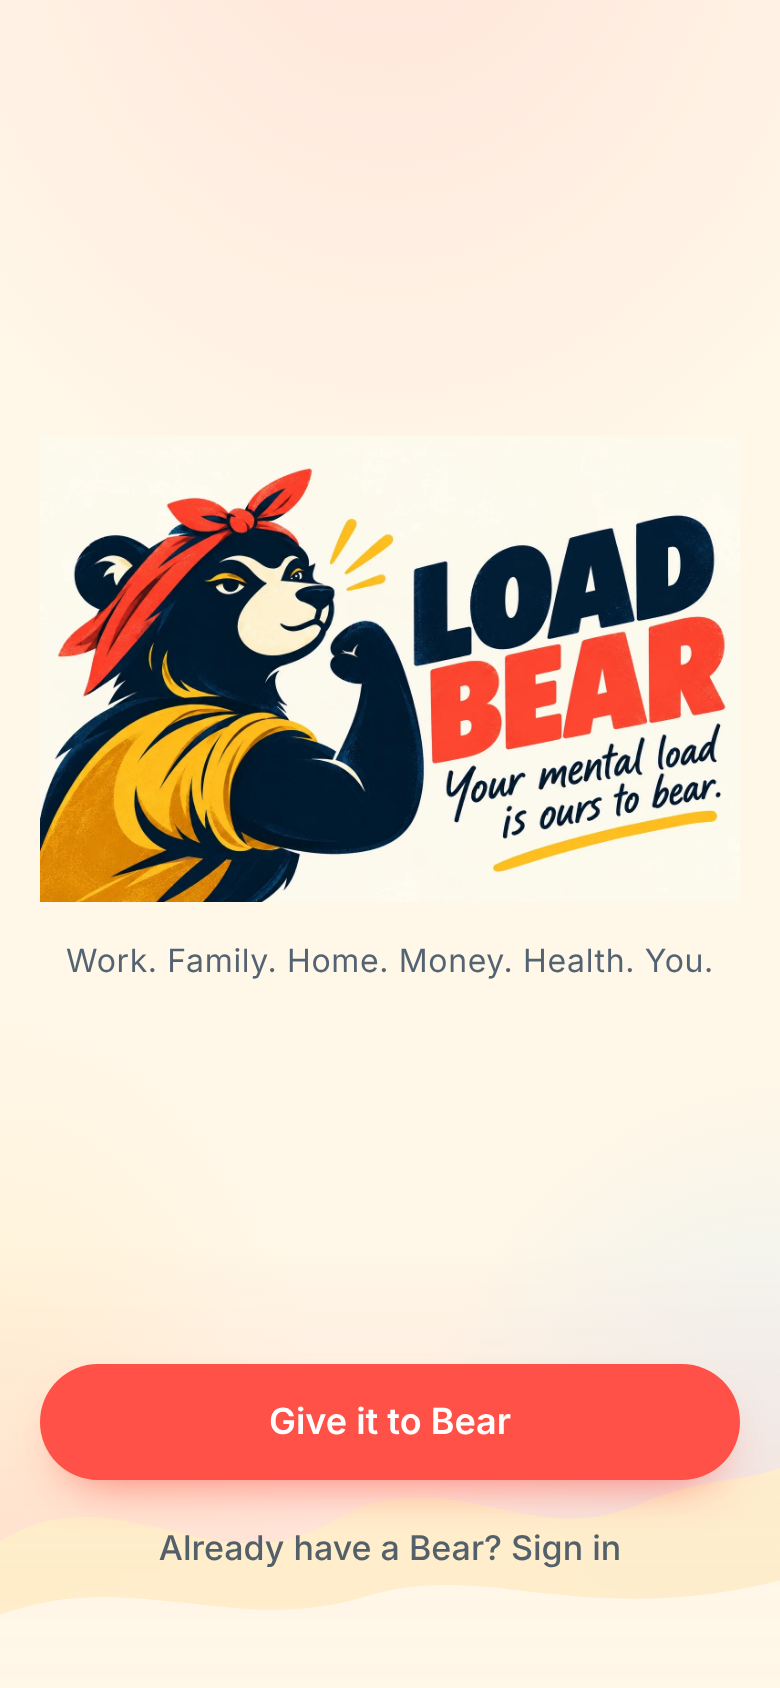
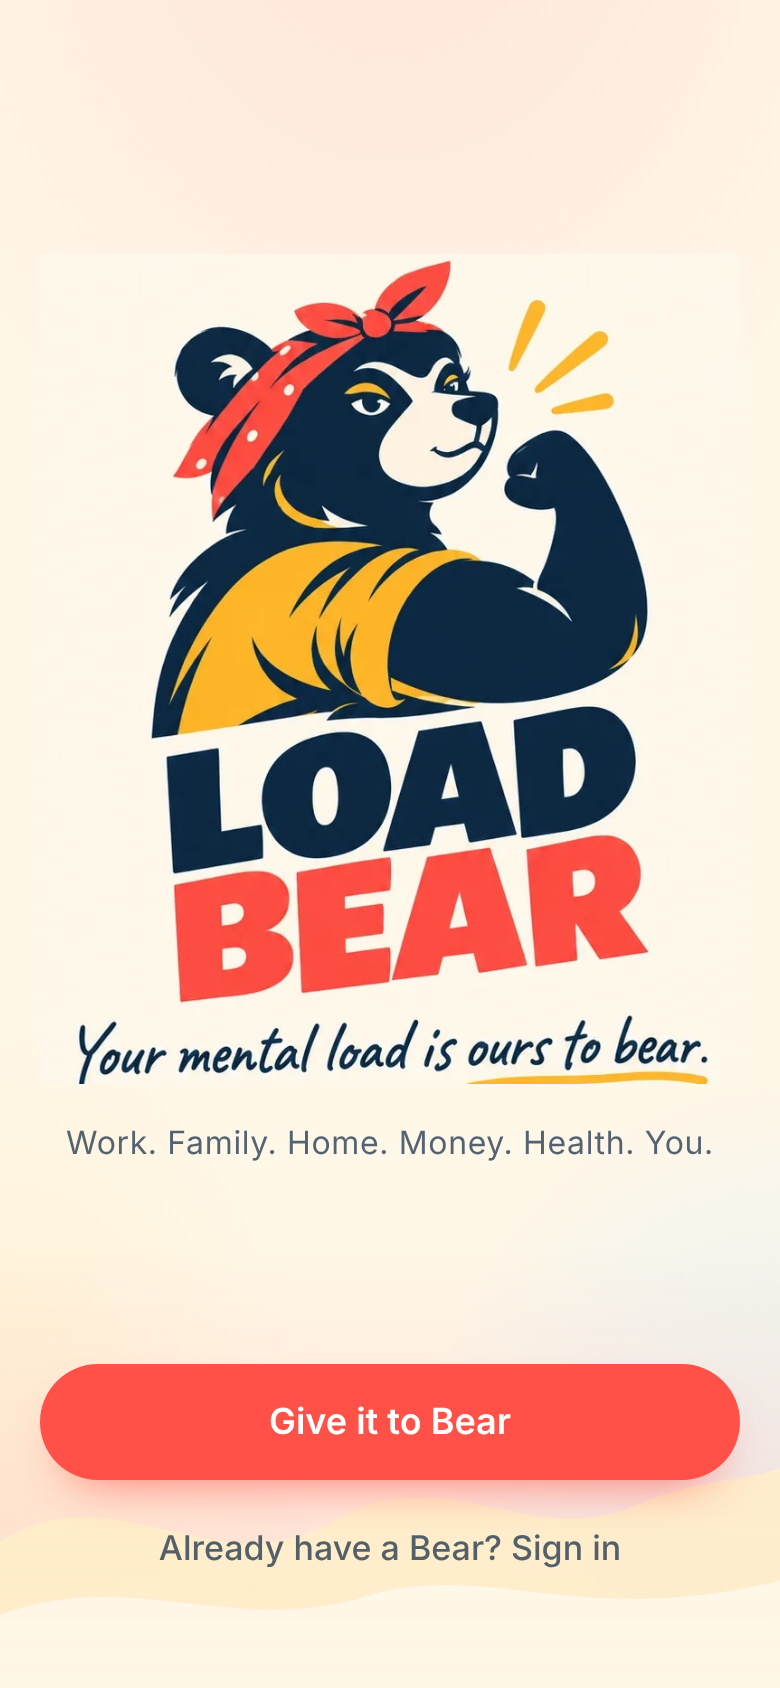
Load Bear: home, wins, preferences, welcome and wordmark artwork from supplied mockups
Claude-Session: https://claude.ai/code/session_01NP3Lwb2Y9rXumsgYeiVjZt

Changed region(s): [[0.0308, 0.154, 0.9538, 0.6777], [0.7077, 0.6777, 0.7385, 0.7085], [0.6154, 0.6777, 0.6462, 0.7085]]

diff --git a/app/bear/(app)/home/page.tsx b/app/bear/(app)/home/page.tsx
@@ -6,7 +6,7 @@ import {apiGet,apiSend} from '@/lib/bear/client';
 import {brand,dayModeReply} from '@/lib/bear/domain/copy';
 import type {DayMode} from '@/lib/bear/domain/types';
 import type {HomeView,NeedsYouItem} from '@/lib/bear/services/home';
-import {BearHead} from '@/components/bear/art';
+import {Art} from '@/components/bear/art';
 import {BearSays} from '@/components/bear/brand';
 import {Button,ErrorCard,Skeleton,Toast,useOnline} from '@/components/bear/ui';
 import {showLocalReminder} from '@/components/bear/runtime';
@@ -37,7 +37,7 @@ export default function Home(){
   <main id="main" className="bear-screen">
    <header style={{display:'flex',justifyContent:'space-between',alignItems:'flex-start',gap:12}}>
     <div><h1 style={{fontSize:28}}>{home.greeting}</h1><p className="muted" style={{marginTop:6}}>{home.coveredCount>0?`Bear's got ${home.coveredCount} ${home.coveredCount===1?'thing':'things'} covered.`:"Bear's ready when you are."}</p></div>
-    <Link href="/bear/me" aria-label="Me"><BearHead size={54}/></Link>
+    <Link href="/bear/me" aria-label="Me"><Art file="home-head" width={96} alt="Mama Bear"/></Link>
    </header>
    {!online&&<p className="note" style={{marginTop:14}} role="status">You&rsquo;re offline. Showing what Bear last knew.</p>}
    {error&&<div style={{marginTop:14}}><ErrorCard message={error} retry={load}/></div>}
@@ -47,7 +47,7 @@ export default function Home(){
    </section>
    <section className="section" aria-labelledby="needs">
     <p id="needs" className="eyebrow coral">Needs you{needs.length?` · ${needs.length} ${needs.length===1?'thing':'things'}`:''}</p>
-    {needs.length===0&&<div className="card" style={{display:'flex',gap:14,alignItems:'center'}}><BearHead size={64}/><div><p style={{fontWeight:600}}>{brand.emptyNeeds}</p><p className="muted small">{brand.emptyNeedsSub}</p></div></div>}
+    {needs.length===0&&<div className="card" style={{display:'flex',gap:14,alignItems:'center',paddingLeft:10}}><Art file="home-calm" width={110}/><div><p style={{fontWeight:600}}>{brand.emptyNeeds}</p><p className="muted small">{brand.emptyNeedsSub}</p></div></div>}
     {needs.map(item=><div key={item.taskId} className="card" style={{borderColor:item.essential?'rgba(255,81,71,.35)':undefined}}>
      <div style={{display:'flex',justifyContent:'space-between',gap:10}}><div><p style={{fontWeight:700,fontSize:18}}>{item.title}</p><p className="muted small">{item.amount}{item.amount?' · ':''}{item.dueLabel} · ~{item.minutes} min</p></div>{item.isDemo&&<span className="demo-tag">Example</span>}</div>
      {item.message&&<p className="hand" style={{fontSize:20,marginTop:10}}>{item.message}</p>}
@@ -58,8 +58,8 @@ export default function Home(){
    </section>
    <section className="section" aria-labelledby="handling">
     <p id="handling" className="eyebrow teal">Bear&rsquo;s handling</p>
-    <div className="card">{home.handling.lines.length?home.handling.lines.map(l=><div key={l} className="row"><span className="icon-dot" aria-hidden="true"><svg width="18" height="18" viewBox="0 0 24 24" fill="none" stroke="currentColor" strokeWidth="2.4" strokeLinecap="round"><path d="M5 13l4 4L19 7"/></svg></span><span className="grow">{l}</span></div>):<p className="muted">{home.hasAnyBill?'Nothing being watched right now.':'Give Bear a bill and it starts watching.'}</p>}
-     {home.demoAvailable&&<div style={{marginTop:14,paddingTop:14,borderTop:'1px solid var(--line)'}}><p className="small">Want to see how it works first? Bear can walk you through an <strong>example</strong> electricity bill.</p><div className="btn-row"><Button className="sm" variant="ghost" disabled={busy==='demo'} onClick={demo}>Try the example bill</Button><Button className="sm" variant="coral" href="/bear/capture">Give Bear a real one</Button></div></div>}
+    <div className="card" style={home.handling.lines.length?undefined:{display:'grid',gridTemplateColumns:'96px 1fr',gap:12,alignItems:'center'}}>{!home.handling.lines.length&&<Art file="home-bill" width={96}/>}{home.handling.lines.length?home.handling.lines.map(l=><div key={l} className="row"><span className="icon-dot" aria-hidden="true"><svg width="18" height="18" viewBox="0 0 24 24" fill="none" stroke="currentColor" strokeWidth="2.4" strokeLinecap="round"><path d="M5 13l4 4L19 7"/></svg></span><span className="grow">{l}</span></div>):<p style={{fontWeight:600}}>{home.hasAnyBill?'Nothing being watched right now.':'Give Bear a bill and it starts watching.'}</p>}
+     {home.demoAvailable&&<div style={{gridColumn:'1 / -1',marginTop:14,paddingTop:14,borderTop:'1px solid var(--line)'}}><p className="small">Want to see how it works first? Bear can walk you through an <strong>example</strong> electricity bill.</p><div className="btn-row"><Button className="sm" variant="ghost" disabled={busy==='demo'} onClick={demo}>Try the example bill</Button><Button className="sm" variant="coral" href="/bear/capture">Give Bear a real one</Button></div></div>}
     </div>
    </section>
    <section className="section" aria-labelledby="notyet">
@@ -68,9 +68,9 @@ export default function Home(){
    </section>
    <section className="section" aria-label="Health, wealth and happiness">
     <div className="ledgers">
-     <div className="ledger health"><span className="k">Health</span><span className="v">{home.ledgers.health.headline}</span>{home.ledgers.health.lines.map(l=><span key={l} className="l">{l}</span>)}{!home.ledgers.health.lines.length&&<span className="l">Things you do for yourself will show up here.</span>}</div>
-     <div className="ledger wealth"><span className="k">Wealth</span><span className="v">{home.ledgers.wealth.headline||'Nothing to count yet'}</span>{home.ledgers.wealth.lines.map(l=><span key={l} className="l">{l}</span>)}{!home.ledgers.wealth.lines.length&&<span className="l">Late fees avoided and discounts kept are counted here, only when the bill states them.</span>}</div>
-     <div className="ledger happiness"><span className="k">Happiness</span><span className="v">{home.ledgers.happiness.headline||'Nothing protected yet'}</span>{home.ledgers.happiness.lines.map(l=><span key={l} className="l">{l}</span>)}{!home.ledgers.happiness.lines.length&&<span className="l">Time Bear helps you protect will show up here.</span>}</div>
+     <div className="ledger health"><Art file="ledger-health" className="ledger-icon"/><span className="k">Health</span><span className="v">{home.ledgers.health.headline}</span>{home.ledgers.health.lines.map(l=><span key={l} className="l">{l}</span>)}{!home.ledgers.health.lines.length&&<span className="l">Things you do for yourself will show up here.</span>}</div>
+     <div className="ledger wealth"><Art file="ledger-wealth" className="ledger-icon"/><span className="k">Wealth</span><span className="v">{home.ledgers.wealth.headline||'Nothing to count yet'}</span>{home.ledgers.wealth.lines.map(l=><span key={l} className="l">{l}</span>)}{!home.ledgers.wealth.lines.length&&<span className="l">Late fees avoided and discounts kept are counted here, only when the bill states them.</span>}</div>
+     <div className="ledger happiness"><Art file="ledger-happiness" className="ledger-icon"/><span className="k">Happiness</span><span className="v">{home.ledgers.happiness.headline||'Nothing protected yet'}</span>{home.ledgers.happiness.lines.map(l=><span key={l} className="l">{l}</span>)}{!home.ledgers.happiness.lines.length&&<span className="l">Time Bear helps you protect will show up here.</span>}</div>
     </div>
    </section>
    {home.ideasCount>0&&<section className="section"><Link href="/bear/ideas" className="glass" style={{display:'flex',padding:'14px 16px',alignItems:'center',gap:12}}><span className="icon-dot mustard" aria-hidden="true">✦</span><span className="grow"><strong>Bear noticed {home.ideasCount===1?'something':`${home.ideasCount} things`}.</strong><br/><span className="faint">Have a look when you have a minute.</span></span></Link></section>}

diff --git a/components/bear/art.tsx b/components/bear/art.tsx
@@ -22,5 +22,8 @@ export const interestArt:Record<string,string>={'Family time':'family-time','Fri
 export function Avatar({size=80}:{size?:number}){return <img src={base+'avatar.webp'} alt="Your Bear" width={size} height={size} style={{width:size,height:size,borderRadius:'50%',objectFit:'cover',flex:'none'}}/>;}
 export function PeopleHeader(){return <img src={base+'people-header.webp'} alt="" aria-hidden="true"/>;}
 export function CapacityArt(){return <img src={base+'capacity-rest.webp'} alt="Mama Bear resting in an armchair with a cup of tea" className="capacity-art" loading="lazy"/>;}
+export function Art({file,width,height,alt='',className='art-inline',style}:{file:string;width?:number;height?:number;alt?:string;className?:string;style?:React.CSSProperties}){return <img src={base+file+'.webp'} alt={alt} aria-hidden={alt?undefined:true} width={width} height={height} className={className} style={{width,height,...style}} loading="lazy"/>;}
+export function HeroVertical(){return <img src={base+'hero-vertical.webp'} alt="Load Bear. Your mental load is ours to bear." style={{width:'100%',maxWidth:360,height:'auto',display:'block',margin:'0 auto',mixBlendMode:'multiply'}} fetchPriority="high"/>;}
+export const prefArt:Record<string,string>={reminderLeadTime:'pref-lead',nudgeTolerance:'pref-nudge',planningDetail:'pref-detail',proactiveSuggestions:'pref-suggest',tone:'pref-tone'};
 export const strengthArt:Record<string,string>={'Planning ahead':'planning-ahead','Getting things done':'getting-things-done','Looking after people':'looking-after-people','Money':'money','Work':'work','Routines':'routines','Cooking':'cooking','Staying active':'staying-active','Problem solving':'problem-solving','Asking for help':'asking-for-help','Keeping calm in chaos':'keeping-calm'};
 export function TileImage({file,alt=''}:{file:string;alt?:string}){return <img src={base+file+'.webp'} alt={alt} style={{width:'100%',height:'100%',objectFit:'cover',display:'block'}} loading="lazy"/>;}

diff --git a/app/bear/(app)/wins/screen.tsx b/app/bear/(app)/wins/screen.tsx
@@ -6,7 +6,7 @@ import {brand} from '@/lib/bear/domain/copy';
 import {formatAUD} from '@/lib/bear/domain/money';
 import {formatAU} from '@/lib/bear/domain/dates';
 import type {WinsView} from '@/lib/bear/services/wins';
-import {BearHead,RoundBadge} from '@/components/bear/art';
+import {EmptyArt,RoundBadge} from '@/components/bear/art';
 import {BearSays} from '@/components/bear/brand';
 import {ErrorCard,Skeleton} from '@/components/bear/ui';
 export function WinsScreen(){
@@ -29,7 +29,7 @@ export function WinsScreen(){
      <div className="t"><b>{data.totals.forMe||'—'}</b><span>Things for me</span></div>
     </div>
     <div className="section">
-     {data.cards.length===0&&<div className="card" style={{display:'flex',gap:14,alignItems:'center'}}><BearHead size={64}/><div><p style={{fontWeight:600}}>{brand.winsEmpty}</p><p className="muted small">{brand.winsSub}</p></div></div>}
+     {data.cards.length===0&&<div className="card" style={{textAlign:'center'}}><EmptyArt file="empty-wins"/><p style={{fontWeight:700,fontSize:19}}>{brand.winsEmpty}</p><p className="muted small" style={{marginTop:4}}>{brand.winsSub}</p><BearSays size={22}>{brand.oneLess}</BearSays></div>}
      {data.cards.some(c=>c.isDemo)&&<p className="faint" style={{marginBottom:10}}>Example bills show here so you can see how it works, but they never count towards your totals.</p>}
      {data.cards.map(c=><div key={c.id} className="receipt"><div style={{display:'flex',justifyContent:'space-between',gap:10}}><p><span className="tick" aria-hidden="true">✓</span><strong>{c.title}</strong></p>{c.isDemo&&<span className="demo-tag">Example</span>}</div><p className="small muted" style={{marginTop:4,paddingLeft:22}}>{c.detail}</p><p className="tiny faint" style={{marginTop:4,paddingLeft:22}}>{formatAU(c.when.slice(0,10),'short')}</p></div>)}
      {data.reinforcement&&<BearSays size={22}>{data.reinforcement}</BearSays>}

diff --git a/app/bear/(app)/me/page.tsx b/app/bear/(app)/me/page.tsx
@@ -5,7 +5,8 @@ import Link from 'next/link';
 import {apiGet,apiSend} from '@/lib/bear/client';
 import type {Profile} from '@/lib/bear/domain/types';
 import {Avatar} from '@/components/bear/art';
-import {Wordmark,Tagline} from '@/components/bear/brand';
+import {Tagline} from '@/components/bear/brand';
+import {Art} from '@/components/bear/art';
 import {Button,ErrorCard,Skeleton,Toast} from '@/components/bear/ui';
 import {areaLabels} from '@/lib/bear/domain/labels';
 type Loaded={profile:Profile;user:{email:string|null;name:string};aiAvailable:boolean;pushAvailable:boolean};
@@ -42,7 +43,7 @@ export default function Me(){
    <section className="section"><p className="eyebrow">Reading bills</p><div className="card"><p className="small">{data.aiAvailable?'Photos, screenshots and PDFs are read by the AI service on Bear’s server. Your bills are never used to train anything, and nothing is paid without you.':'The AI service is not connected, so pictures and PDFs are off. Pasted text and typed bills still work.'}</p></div></section>
    <section className="section"><p className="eyebrow">Privacy</p><div className="card"><p className="small">Only you can see your bills. Bear stores the biller, amount, dates and payment reference, never card numbers, CVVs or bank passwords. <Link href="/privacy" style={{textDecoration:'underline'}}>Privacy notice</Link></p>
     <div className="btn-row"><Button className="sm" variant="quiet" href="/signout">Sign out</Button></div></div></section>
-   <div style={{marginTop:32,textAlign:'center'}}><Wordmark size={22}/><br/><Tagline size={20}/></div>
+   <div style={{marginTop:32,textAlign:'center'}}><Art file="wordmark" className="wordmark-img" alt="Load Bear"/><Tagline size={20}/></div>
    <Toast message={toast} onDone={()=>setToast(null)}/>
    <span className="sr-only" data-tick={permTick}/>
   </main>

diff --git a/app/bear/onboarding/page.tsx b/app/bear/onboarding/page.tsx
@@ -10,7 +10,7 @@ import {BearSays} from '@/components/bear/brand';
 import {Horizon} from '@/components/bear/horizon';
 import {Button,Chip,Progress,Tile,Toast,TopBar} from '@/components/bear/ui';
 import {AreaArt,NeedArt,InterestArt,StrengthArt} from '@/components/bear/tile-art';
-import {areaArt,CapacityArt,EmptyArt,interestArt,needArt,PeopleHeader,strengthArt} from '@/components/bear/art';
+import {areaArt,Art,CapacityArt,EmptyArt,interestArt,needArt,PeopleHeader,prefArt,strengthArt} from '@/components/bear/art';
 
 const steps=['areas','people','needs','interests','strengths','preferences','rhythm','capacity','done'] as const;
 type Step=typeof steps[number];
@@ -81,7 +81,7 @@ export default function Onboarding(){
    </section>}
    {step==='preferences'&&<section>
     <h1>How do you like to get things done?</h1>
-    {prefQuestions.map(p=><div key={p.key} className="section"><h3>{p.q}</h3><div className="chips" style={{marginTop:10}} role="group" aria-label={p.q}>{p.options.map(o=><Chip key={o.value} label={o.label} selected={pins.preferences[p.key]===o.value} onToggle={()=>update({pins:{...pins,preferences:{...pins.preferences,[p.key]:o.value}}})}/>)}</div></div>)}
+    {prefQuestions.map(p=><div key={p.key} className="card pref-card" style={{marginTop:14}}><Art file={prefArt[p.key]}/><div><h3>{p.q}</h3><div className="chips" style={{marginTop:10}} role="group" aria-label={p.q}>{p.options.map(o=><Chip key={o.value} label={o.label} selected={pins.preferences[p.key]===o.value} onToggle={()=>update({pins:{...pins,preferences:{...pins.preferences,[p.key]:o.value}}})}/>)}</div></div></div>)}
     <div className="btn-stack"><Button disabled={busy} onClick={()=>save({pins},'rhythm')}>Next</Button></div>
    </section>}
    {step==='rhythm'&&<section>

diff --git a/app/bear/welcome/page.tsx b/app/bear/welcome/page.tsx
@@ -1,5 +1,5 @@
 import Link from 'next/link';
-import {HeroLockup} from '@/components/bear/art';
+import {HeroVertical} from '@/components/bear/art';
 import {Horizon} from '@/components/bear/horizon';
 import {brand} from '@/lib/bear/domain/copy';
 export default function Welcome(){
@@ -7,7 +7,7 @@ export default function Welcome(){
   <main id="main" className="bear-screen flow" style={{display:'flex',flexDirection:'column',minHeight:'100dvh',position:'relative',overflow:'hidden'}}>
    <Horizon height={220}/>
    <div style={{position:'relative',zIndex:1,display:'flex',flexDirection:'column',alignItems:'center',textAlign:'center',flex:1,justifyContent:'center',gap:18,paddingTop:12}}>
-    <HeroLockup/>
+    <HeroVertical/>
     <p className="muted" style={{fontSize:16,letterSpacing:'.02em'}}>{brand.areasLine}</p>
    </div>
    <div style={{position:'relative',zIndex:1,display:'grid',gap:12,paddingBottom:8}}>

diff --git a/app/bear/bear.css b/app/bear/bear.css
@@ -224,3 +224,9 @@
 .bear .people-head{display:grid;grid-template-columns:1fr 38%;gap:8px;align-items:end;}
 .bear .people-head img{width:100%;height:auto;display:block;mix-blend-mode:multiply;}
 .bear .capacity-art{display:block;width:calc(100% + 40px);margin:24px -20px -40px;height:auto;}
+.bear .art-inline{display:block;height:auto;mix-blend-mode:multiply;flex:none;}
+.bear .ledger{grid-template-columns:72px 1fr;display:grid;column-gap:12px;align-items:center;}
+.bear .ledger .ledger-icon{grid-row:1 / span 4;width:72px;height:72px;object-fit:contain;mix-blend-mode:multiply;}
+.bear .pref-card{display:grid;grid-template-columns:64px 1fr;gap:12px;align-items:start;}
+.bear .pref-card img{width:64px;height:64px;object-fit:contain;mix-blend-mode:multiply;margin-top:4px;}
+.bear .wordmark-img{display:block;width:150px;height:auto;margin:0 auto;mix-blend-mode:multiply;}
